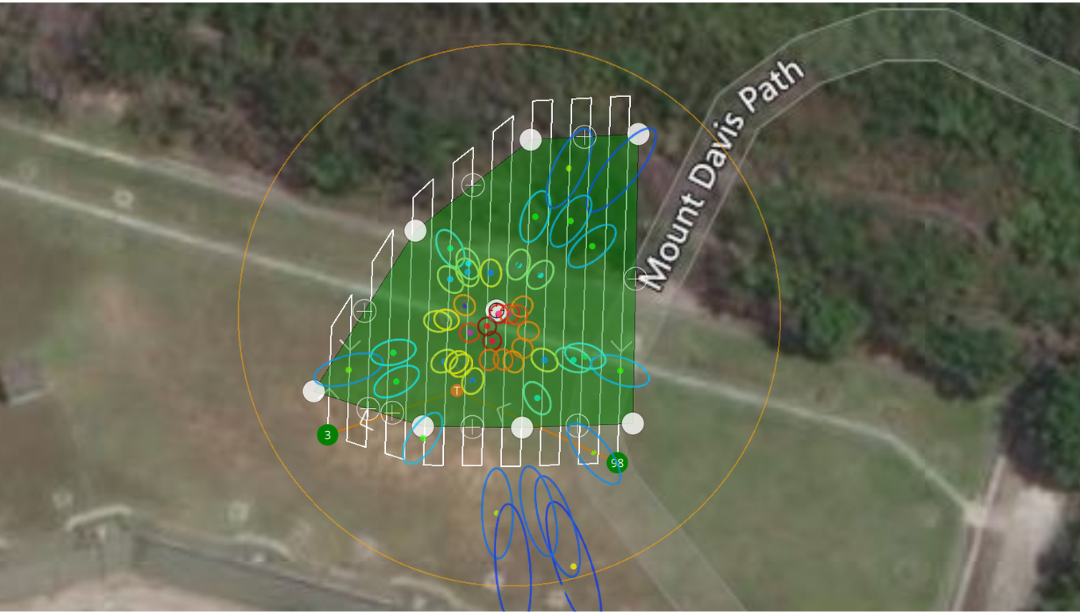
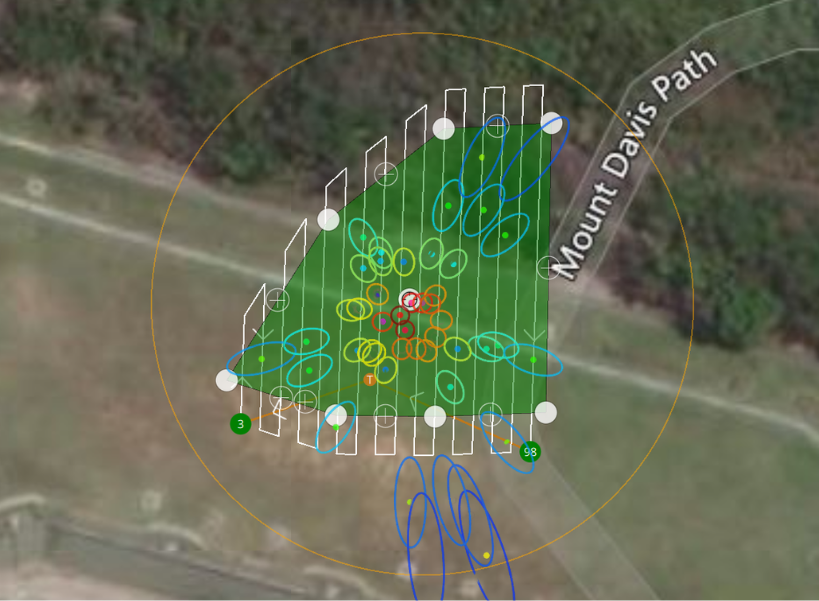
Update abstract

diff --git a/ASMPT_Abstract.tex b/ASMPT_Abstract.tex
@@ -4,7 +4,7 @@
 \usepackage[utf8]{inputenc}
 \usepackage[T1]{fontenc}
 \usepackage{times} % Sets font to Times New Roman
-\usepackage[margin=2.5cm]{geometry} % Sets 2.5cm margins
+\usepackage[margin=2cm]{geometry} % Sets 2.5cm margins
 \usepackage{graphicx}
 \usepackage{booktabs}          
 \usepackage{microtype}
@@ -17,13 +17,13 @@
 \usepackage{subcaption}
 \usepackage{titling}
 \usepackage{xurl}
+\usepackage{enumitem}
 
 % --- Settings ---
 \singlespacing
 \sectionfont{\normalsize}
 \subsectionfont{\normalsize\it\bfseries}
 \subsubsectionfont{\normalsize\it}
-\setlength{\parindent}{0pt}
 \captionsetup{font=normal}
 \setlength{\droptitle}{-60pt}
 \urlstyle{same}
@@ -36,7 +36,7 @@
     \normalsize\textbf{Supervisors: }Prof. Guohao ZHANG, Prof. Li-Ta HSU
 }
 \date{\normalsize
-    \it{Faculty of Engineering, the Hong Kong Polytechnic University}
+    \it{Faculty of Engineering, The Hong Kong Polytechnic University}
 }
 
 \begin{document}
@@ -45,7 +45,7 @@
 \section{Introduction}
 The continuous and accurate monitoring of vegetation is essential for sustainable resource management and ecosystem preservation. Traditionally, vegetation monitoring relied on manual field assessments, which is highly dependent on the available expertise and resources \cite{Gibbons2006, Parkes2003}. To address these limitations and to accommodate for large-scale demands, remote sensing emerged as an essential tool.  
 
-Remote sensing is the acquisition of information through measuring the energy reflected from the object of interest without direct contact \cite{campbell2011introduction}. Additionally, remote sensing could be classified into space-borne and airborne approaches. Space-borne remote sensing involves the use of instruments onboard satellites, including cameras \cite{Qian2022}, radars \cite{Hu2025}, and Light Detection and Ranging (LiDAR) sensors \cite{Bergen2009}. While space-borne methods can monitor macro-scale ecosystems over time, airborne remote sensing provides significantly improved resolution and flexibility through the integration of sensors onboard aircraft \cite{Khan2024}. Particularly, Unmanned Aerial Vehicles (UAVs) can be deployed on-demand with low costs, rendering them ideal for monitoring regional vegetation \cite{Tang2015}.
+Remote sensing is the acquisition of information through measuring the energy reflected from the object of interest without direct contact \cite{campbell2011introduction}. Additionally, remote sensing could be classified into space-borne and airborne approaches. Space-borne remote sensing involves the use of instruments onboard satellites, including cameras \cite{Qian2022}, radars \cite{Hu2025}, and Light Detection and Ranging (LiDAR) sensors \cite{Bergen2009}. While space-borne methods can monitor macro-scale ecosystems over time, airborne remote sensing provides improved resolution and flexibility through the integration of sensors onboard aircraft \cite{Khan2024}. Particularly, Unmanned Aerial Vehicles (UAVs) can be deployed on-demand with low costs, rendering them ideal for monitoring regional vegetation \cite{Tang2015}.
 
 Among typical remote sensing payloads, LiDAR is particularly effective for vegetation monitoring due to its capacity to capture 3D information from spacially referenced point cloud environments. Additionally, unlike imaging instruments that are susceptible to lighting and weather, LiDAR measurements are more robust against varying illumination conditions and visually repetitive scenes, thus providing reliable geometric references of tree canopies \cite{Wu2024, jiang2025gps}. However, standalone LiDAR measurements lack global spatial context for a dynamic sensor platform \cite{wang2026multi}. Therefore, it is necessary to implement a Simultaneous Localization and Mapping (SLAM) framework to estimate the UAV trajectory while accurately constructing a spacial-referenced point cloud map.
 
@@ -55,121 +55,158 @@ While a GNSS-R system can obtain terrain information through the analytical char
 
 Lastly, the effectiveness of UAV-based remote sensing heavily depends on the efficiency of flight trajectories. While it is easy to assume the traditional lawnmower patterns common in robotics applications, they do not account for the unique ground reflection zone geometries inherent to an airborne GNSS-R system \cite{GALCERAN20131258, yu2021theory}. Consequently, an autonomous coverage path planning (CPP) framework is crucial for optimizing flight trajectories based on the corresponding GNSS satellite geometries \cite{Cabreira2019}. 
 
-In summary, this project addresses the systemic gap for low-cost, intelligent, and multidisciplinary remote sensing systems through the following objectives: 
+In this project, an intelligent UAV system is developed to achieve low-cost, GNSS-based remote sensing of vegetation. Through autonomous path planning, the UAV flies in optimized trajectories for GNSS-based sensing and LiDAR data collection. In post-processing, LiDAR data is used to generate 3D point cloud maps of the canopy, while GNSS signals reflecting off ground features are analyzed and modeled to obtain ground parameters. Lastly, machine learning algorithms are employed to cross-validate the ground parameters obtained through statistical modeling.
 
-\begin{enumerate}
+This project provides the following contributions:
+
+\begin{enumerate}[nosep]
 \item To introduce an autonomous path planning framework for optimized GNSS-R remote sensing.
 \item To implement a SLAM framework for mapping vegetation in LiDAR-based environments.
 \item To model the correlations between information retrieved through GNSS-R and ground conditions. 
 \item To classify vegetation reflected signals and predict vegetation boundaries based on raw GNSS data.
+\item To validate system capabilities via real flight experiments.
 \end{enumerate}
 
 The code scripts of this project, a video demonstration of the final product, as well as sample datasets are organized into the GitHub repository \url{https://github.com/zhlouise/UAV_GNSS-R}.
 
 \section{System Architecture}
 \subsection{Logical Architecture}
-Four core pipelines, each corresponding to a project objective, are integrated to form a systematic framework.
+Four core pipelines, each corresponding to a project objective, are integrated to form a systematic framework. First, satellite images are used for identifying potential sensing regions for the execution of waypoint or coverage based paths. After designing the flight trajectory based on ground reflection zones of GNSS signals, the mission will be executed. After the flight, the logged LiDAR data are time-synchronized. With both the LiDAR data and GPS solution time-stamped, both front-end LiDAR odometry and back-end Pose Graph Optimization (PGO) SLAM will be implemented for the generation of point cloud maps. Simultaneously, the raw GNSS data collected during the flight mission are post-processed into key measurement parameters for analysis in correlation with the ground reflection zones - the First Fresnel Zones (FFZs). Such correlations will be modeled and used to retrieve ground features from received GNSS data. Lastly, a trained LightGBM machine learning model will be used to classify the received GNSS signals. The categorized vegetation-reflected signals will be used to detect vegetation boundary and cross-validate any ground parameters retrieved from the GNSS-R and LiDAR pipeline.
 
 \begin{figure}[H]
     \centering
-    \includegraphics[width=0.85\textwidth]{Included_Images/System_Architecture.png}
+    \includegraphics[width=0.8\textwidth]{Included_Images/System_Architecture.png}
     \caption{System Architecture}
 \end{figure}
-
-First, both waypoint-based and coverage-based path planning algorithms are adopted, while satellite imagery are used for identifying potential sensing regions. After designing the flight trajectory based on ground reflection zones of GNSS signals, the mission will be executed via ground control.
-
-After the flight, the logged LiDAR data are time-synchronized. With both the LiDAR data and GPS solution time-stamped, both front-end LiDAR odometry and back-end Pose Graph Optimization (PGO) SLAM will be implemented for the generation of point cloud maps.
-
-Simultaneously, the raw GNSS data collected during the flight mission are post-processed into two key measurements for analysis in correlation with the ground reflection zones - the First Fresnel Zones (FFZs). Such correlations will be modeled and used to retrieve ground parameters from GNSS-R measurements.
-
-Lastly, a trained LightGBM machine learning model will be used to classify the received GNSS signals. The categorized vegetation-reflected signals will be used to detect vegetation boundary and cross-validate the ground parameters retrieved from the GNSS-R and LiDAR pipeline.
 
 \subsection{Physical Architecture}
 The UAV platform used is a Holybro X650 quadcopter with a Pixhawk 6C flight controller, linked to the ground control computer via telemetry radios. Onboard sensing instruments include a Livox Mid-360 LiDAR and a pair of U-blox F9P GNSS receivers, connected to an upward-facing antenna receiving direct signals and a downward-facing antenna receiving ground-reflected signals. The control and logging of sensor data are handled by an onboard Jetson Orin Nano Computer.
 
 \begin{figure}[H]
     \centering
-    \includegraphics[width=0.65\textwidth]{Included_Images/UAV_Setup.png}
+    \includegraphics[width=0.5\textwidth]{Included_Images/UAV_Setup.png}
     \caption{UAV Platform and Onboard Setup}
 \end{figure}
 
 \section{Methodology}
 
-\subsection{Flight Trajectory Design}
-To obtain optimal coverage of the target sensing area, the expected FFZs are calculated at target flight altitudes and time windows. Then, a nearest-neighbor distance clustering algorithm is employed to cluster the more concentrated FFZs as the primary region of interest. 
+\subsection{First Fresnel Zone Calculation}
+In this system, GNSS signals reflect off the ground are received by the downward antenna, carrying information related to ground features present within the ellipsoidal FFZs. Each FFZ's semi-major axis $a$, semi-minor $b$, and coordinates $(0, y_c, 0)$ could be calculated using the following equations:
 
-Since the resulting clusters are of irregular geometry, they are simplified into square, circular, or triangular shapes that maximize the spatial coverage of FFZs within the shape's enclosure. Then, the optimal trajectory separation is derived according to the cluster area, the desired overlap margin, and an empirical geometric shape factor specific to the cluster geometry.
+\begin{equation}
+    a = \frac{\sqrt{\lambda H sin(\theta)+\frac{\lambda^2}{4}}}{(sin(\theta))^2}, b = \frac{\sqrt{\lambda H sin(\theta)+\frac{\lambda^2}{4}}}{sin(\theta)}, y_c = (\frac{\lambda}{2}+ H sin(\theta))\frac{cos(\theta)}{(sin(\theta))^2}
+\end{equation}
+
+\begin{figure}[H]
+    \centering
+    \includegraphics[width=0.45\textwidth]{Included_Images/Fresnel_Zone_Illustration.png}
+    \caption{Schematic diagram of GNSS-R signal reflection geometry with the First Fresnel Zone illustrated.}
+\end{figure}
+
+
+\subsection{Flight Trajectory Design}
+To obtain optimal coverage of the target sensing area, the expected FFZs are clustered via a nearest-neighbor distance clustering algorithm. Each irregular cluster is simplified into a regular shape (square, circle, or triangle) where the spatial coverage of FFZs are maximized within the shape's boundary. Then, the optimal trajectory separation $d$ is derived according to the cluster area $A$, the desired overlap margin $o$, and an empirical geometric shape factor $k$.
+
+\begin{equation}
+    d = (1-o)\cdot k \cdot \sqrt{A}
+\end{equation}
 
 \subsection{Point Cloud Map Generation}
-The front-end LiDAR odometry utilizes the Fast-LIO framework, which operates via an Iterative Extended Kalman Filter (IEKF) that recursively updates the state vectors based on kinematic prediction models and measurement corrections. While forward kinematic predictions track system propagation and accumulate error covariances based on linearized Jacobian transition matrices, observed LiDAR feature scans modify the predictions through non-linear measurement models with sensor noises accounted. Lastly, an adaptive Kalman Gain is calculated across iterations to update the corrected covariance weights.
-
-To mitigate inevitable long-term drifts, a back-end PGO pipeline is also adopted, where GPS positioning solutions regularly updates the trajectory while historical trajectory states are structured within a bipartite factor graph. The measurements are weighted by their respective inverse covariance matrices, while a Levenberg-Marquardt algorithm dynamically dampens the correction adjustments to account for multi-sensor residual errors. Lastly, extrinsic frame transformations handle rotational and translational offsets between the global GPS frame and the local LiDAR frame, providing corrected orientation at initialization.
+To generate spacially referenced point cloud maps, both front-end LiDAR odometry and back-end PGO are employed to align point cloud frames along the flight trajectory. The front-end odometry utilizes the Fast-LIO framework, which resolves the flight trajectory using both measurements from the Inertial Measurement Unit (IMU) and features from LiDAR point clouds in high frequency. While odometry provides fast tracking of the local trajectory, errors inevitably accumulate over long flights, causing the point cloud map to warp. Therefore, GPS positioning solutions are integrated through a PGO pipeline, which corrects the trajectory from odometry using global-frame coordinates. Lastly, an extrinsic calibration step is employed to resolve any discrepancies between the LiDAR orientation and GPS coordinates.
 
 \subsection{GNSS-R Signal Modeling}
-The GNSS-R data collected during flight missions are post processed to extract each signal's carrier-to-noise ratio ($C/N_0$) and excess pseudorange delay. While $C/N_0$ represents the received carrier signal power relative to the noise power, the excess pseudorange delay represent the additional delay of the reflected signal after accounting for the geometric reflection delay. These parameters are then mapped to the corresponding FFZs to qualitatively analyze any correlations between GNSS signal characteristics and ground features. 
+First, two parameters are retrieved from the collected GNSS data to analyze with respect to the ground features present within FFZs: the carrier-to-noise ratio $C/N_0$ and the excess pseudorange delay $\epsilon$. While $C/N_0$ represents the received carrier signal power $C$ relative to the noise power $N$ per unit bandwidth $BW$, the excess pseudorange delay represents the additional delay in pseudorange of the reflected signal $\rho_{reflected}$ after accounting for the clock biases $(\Delta t_{nadir} - \Delta t_{zenith})$ and the geometric reflection delay $\frac{2H}{sin(\theta)}$. 
 
-Additionally, the Pearson correlation coefficients between GNSS signal properties and the reference Color-Infrared (CIR) images are calculated to model the correlations between $C/N_0$, excess pseudorange delay, and ground feature infrared emission. This model is then used to reconstruct CIR information from GNSS signal parameters.
+\begin{equation}
+    C/N_0 = C - (N - BW)
+\end{equation}
+
+\begin{equation}
+    \epsilon = \rho_{reflected} - \rho_{direct} - (\Delta t_{nadir} - \Delta t_{zenith}) - \frac{2H}{sin(\theta)}
+\end{equation}
+
+Then, any correlations between the GNSS parameters and ground features will be mathematically modeled through the Pearson correlation coefficient $r$, which will be leveraged to reconstruct ground features from GNSS parameters. Here, the ground features will be quantitatively represented by the RGB color channels of reference Color-Infrared (CIR) images. 
+
+\begin{equation}
+    r = \frac{\sum (x_i - \bar{x})(y_i - \bar{y})}{\sqrt{\sum (x_i - \bar{x})^2 \sum (y_i - \bar{y})^2}}
+\end{equation}
 
 \subsection{Machine Learning Signal Classification}
-As raw GNSS signal parameters are multidimensional and complex, a supervised LightGBM model is utilized to handle missing observations and classify the received signals without introducing manual input bias. In total, the model's feature vector includes five attributes obtained through the dual-antenna system: raw pseudorange, $C/N_0$, Doppler frequency shift, pseudorange error, and carrier phase. 
-
-The database for training and testing consists of 70,125 distinct entries of three classes: 1) direct open-sky signals, 2) signals reflected over bare soil, and 3) signals reflected over vegetation. Then, the dataset is split according to the 60:20:20 ratio for training, testing, and validation. Lastly, a leaf-wise node growth approach is used to minimize the cross-entropy cost function and an extensive grid search configuration is used for hyperparameter fine-tuning for classification.
+A supervised LightGBM model is trained to classify all received signals into each of the three categories: 1) direct open-sky signals, 2) signals reflected over bare soil, and 3) signals reflected over vegetation. The model's feature vector includes five GNSS measurements: raw pseudorange, $C/N_0$, Doppler frequency shift, pseudorange error, and carrier phase. A total of 70,124 data entries were available, which was split according to the 60:20:20 ratio for training, testing, and validation. Lastly, the resulting signal categories are projected to their respective FFZs on ground, highlighting the vegetation boundary.
 
 \section{Results and Discussion}
 
-\subsection{Path Planning}
-Among a total of 24 successful sensing flights conducted throughout the project, a field test was performed at Mount Davis Service Reservoir Garden, Hong Kong. Here, the autopilot was configured to maintain a continuous survey altitude of 35 meters, with a trajectory separation of 2 meters. 
+\subsection{Flight Trajectory Planning}
+Among a total of 24 successful sensing flights conducted throughout the project, a field test was performed at Mount Davis Service Reservoir Garden, Hong Kong. Here, a triangular enclosure is selected to represent the FFZ cluster and a trajectory separation of 2 meters was derived.
+
 \begin{figure}[H]
     \centering
-    \includegraphics[width=0.75\textwidth]{Included_Images/KeyExperiment_Plannedpath.png}
-    \caption{Mission Planning and Execution Results}
+    \begin{subfigure}{0.37\textwidth}
+        \includegraphics[width=\textwidth]{Included_Images/boundary.png}
+        \caption{FFZ Clustering}
+    \end{subfigure}
+    \hspace{2em}
+    \begin{subfigure}{0.3\textwidth}
+        \includegraphics[width=\textwidth]{Included_Images/cpp_over_vegetation.png}
+        \caption{Planned Flight Trajectory}
+    \end{subfigure}
+    \caption{Test flight path planning result at Mount Davis Service Reservoir Garden.}
 \end{figure}
 
-\subsection{LiDAR SLAM}
-To accurately map the ground conditions, the raw LiDAR logs were processed through both the standalone front-end odometry and the GPS-corrected back-end optimization. Here, both the front-end Fast-LIO odometry and the back-end PGO+GPS approaches present point clouds of different features, such as bare ground and tree canopies, which can be used as a geometric reference for GNSS-R derived vegetation areas.
-
+\subsection{Point Cloud Map Generation}
+Both the standalone front-end odometry (Fast-LIO) and the GPS-corrected back-end optimization (PGO+GPS) were used to generate a 3D point cloud map where features such as bare ground and tree canopies were clearly presented.
 \begin{figure}[H]
     \centering
-    \begin{subfigure}{0.4\textwidth}
+    \begin{subfigure}{0.32\textwidth}
         \includegraphics[width=\textwidth]{Included_Images/case_FL.png}
         \caption{Fast-LIO}
     \end{subfigure}
-    \hfill
-    \begin{subfigure}{0.4\textwidth}
+    \hspace{2em}
+    \begin{subfigure}{0.32\textwidth}
         \includegraphics[width=\textwidth]{Included_Images/case_pgo.png}
         \caption{PGO+GPS}
     \end{subfigure}
     \caption{LiDAR SLAM results using two different techniques.}
 \end{figure}
 
-\subsection{GNSS-R}
-The GNSS signal parameters captured distinguishing variations across unique ground boundaries. While the received $C/N_0$ ratios demonstrated significant differences between water bodies and vegetation canopies due to differences in dielectric properties, the excess pseudorange delays could distinguish sparse vegetation (grassy soil) from dense vegetation. Lastly, using the Pearson correlation coefficient models developed, the original CIR colors were constructed directly from the GNSS signal parameters for vegetation mapping.
+\subsection{GNSS-R Signal Modeling}
+The GNSS signal parameters captured distinguishing variations across unique ground boundaries. First, the $C/N_0$ ratios are significantly higher over water compared to over vegetation, where it is inversely correlated to the CIR redness. On the other hand, higher excess pseudorange delay could be observed over bare ground or sparse vegetation (grassy soil), where it is positively correlated to CIR greenness and blueness. 
 \begin{figure}[H]
     \centering
-    \begin{subfigure}{0.3\textwidth}
+    \begin{subfigure}{0.33\textwidth}
         \includegraphics[width=\textwidth]{Included_Images/CNR_ratio_FFZ.png}
         \caption{$C/N_0$ Ratio}
     \end{subfigure}
-    \hfill
-    \begin{subfigure}{0.3\textwidth}
+    \hspace{2em}
+    \begin{subfigure}{0.33\textwidth}
         \includegraphics[width=\textwidth]{Included_Images/yuenlong_pr_delay.png}
         \caption{Excess Pseudorange Delay}
     \end{subfigure}
-    \hfill
-    \begin{subfigure}{0.3\textwidth}
-        \includegraphics[width=\textwidth]{Included_Images/CIR_reconstruction_yuenlong.png}
-        \caption{Reconstructed CIR Image Color}
-    \end{subfigure}
-    \caption{Received $C/N_0$ ratios, excess pseudorange delays, and reconstructed CIR color, plotted over the FFZs of the reflected signals.}
+    \caption{$C/N_0$ ratios and excess pseudorange delays over ground FFZs.}
 \end{figure}
 
-
-\subsection{Machine Learning}
-During training, the LightGBM classification model converged rapidly, narrowing the validation loss gap to a negligible margin. In testing evaluations, a predictive confidence score between 0.85 and 0.98 could be achieved for each satellite signal. Through projecting the classified signals into the centroids of their respective FFZ, the physical boundaries of the vegetation zones could be obtained. Moreover, the results aligned closely with the traditional analytical results from the GNSS-R data as well as the 3D features captured by LiDAR.
+Lastly, using the developed correlation models, the original CIR colors were constructed directly from the GNSS signal parameters for vegetation mapping.
 
 \begin{figure}[H]
     \centering
-    \includegraphics[width=0.55\textwidth]{Included_Images/mtdavis_ffzcon.png}
+    \begin{subfigure}{0.33\textwidth}
+        \includegraphics[width=\textwidth]{Included_Images/CIR_reconstruction_yuenlong.png}
+        \caption{Test Flight in Yuen Long}
+    \end{subfigure}
+    \hspace{2em}
+    \begin{subfigure}{0.33\textwidth}
+        \includegraphics[width=\textwidth]{Included_Images/casestudy_CIR.png}
+        \caption{Test Flight at Mount Davis}
+    \end{subfigure}
+    \caption{Reconstructed CIR color over ground FFZs for two test flights.}
+\end{figure}
+
+\subsection{Machine Learning Signal Classification}
+During testing, the LightGBM model achieved a predictive confidence score between 0.85 and 0.98 for each satellite signal. Through projecting the signal classes onto their respective FFZ centroids, the vegetation zone boundaries could be obtained. This aligned closely with the reconstructed CIR color as well as the 3D features captured by LiDAR.
+
+\begin{figure}[H]
+    \centering
+    \includegraphics[width=0.4\textwidth]{Included_Images/mtdavis_ffzcon.png}
     \caption{Classified signals over FFZs, highlighting vegetation zones.}
 \end{figure}
 
@@ -182,7 +219,8 @@ While the integrated system achieved its primary objectives, it must be acknowle
 This project was completed under the guidance of chief supervisor Prof. Guohao ZHANG and co-supervisor Prof. Li-Ta HSU from the Department of Aeronautical and Aviation Engineering, The Hong Kong Polytechnic University. 
 
 The student team acknowledges the use of open-source frameworks, toolkits, and data that supported this project:
-\begin{itemize}
+
+\begin{itemize}[noitemsep]
     \item The CPP algorithm was provided by the Boustrophedon Decomposition framework developed by the Autonomous Systems Lab at ETH Zurich.
     \item The Fast-LIO framework was adopted from the open-source repository developed by the Mechatronics and Robotic Systems Laboratory at the University of Hong Kong.
     \item The NASA Broadcast Ephemeris Data Products were used to determine the GNSS satellite coordinates.
